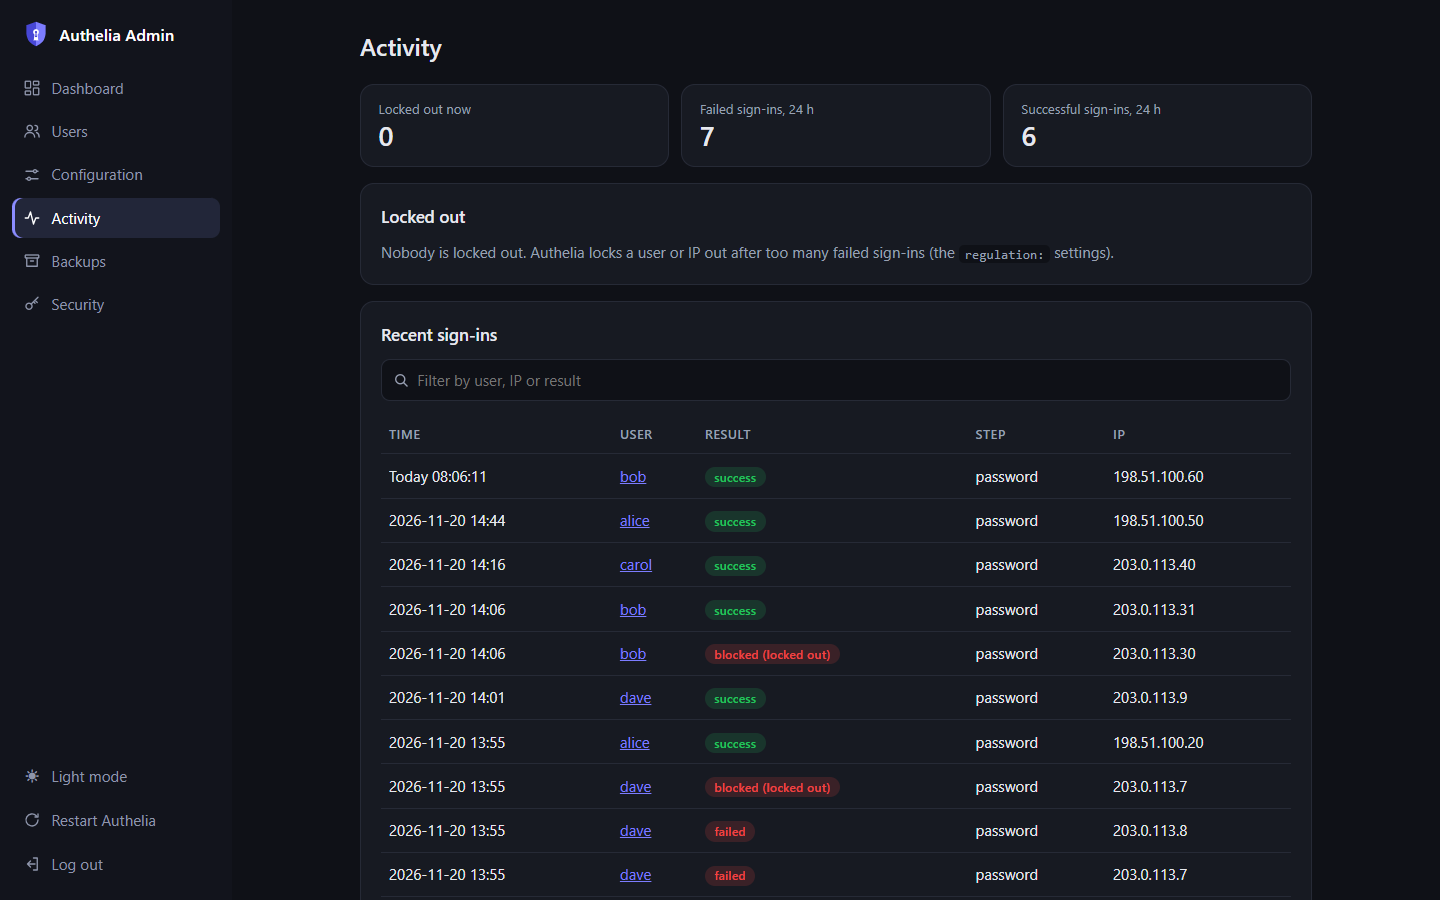
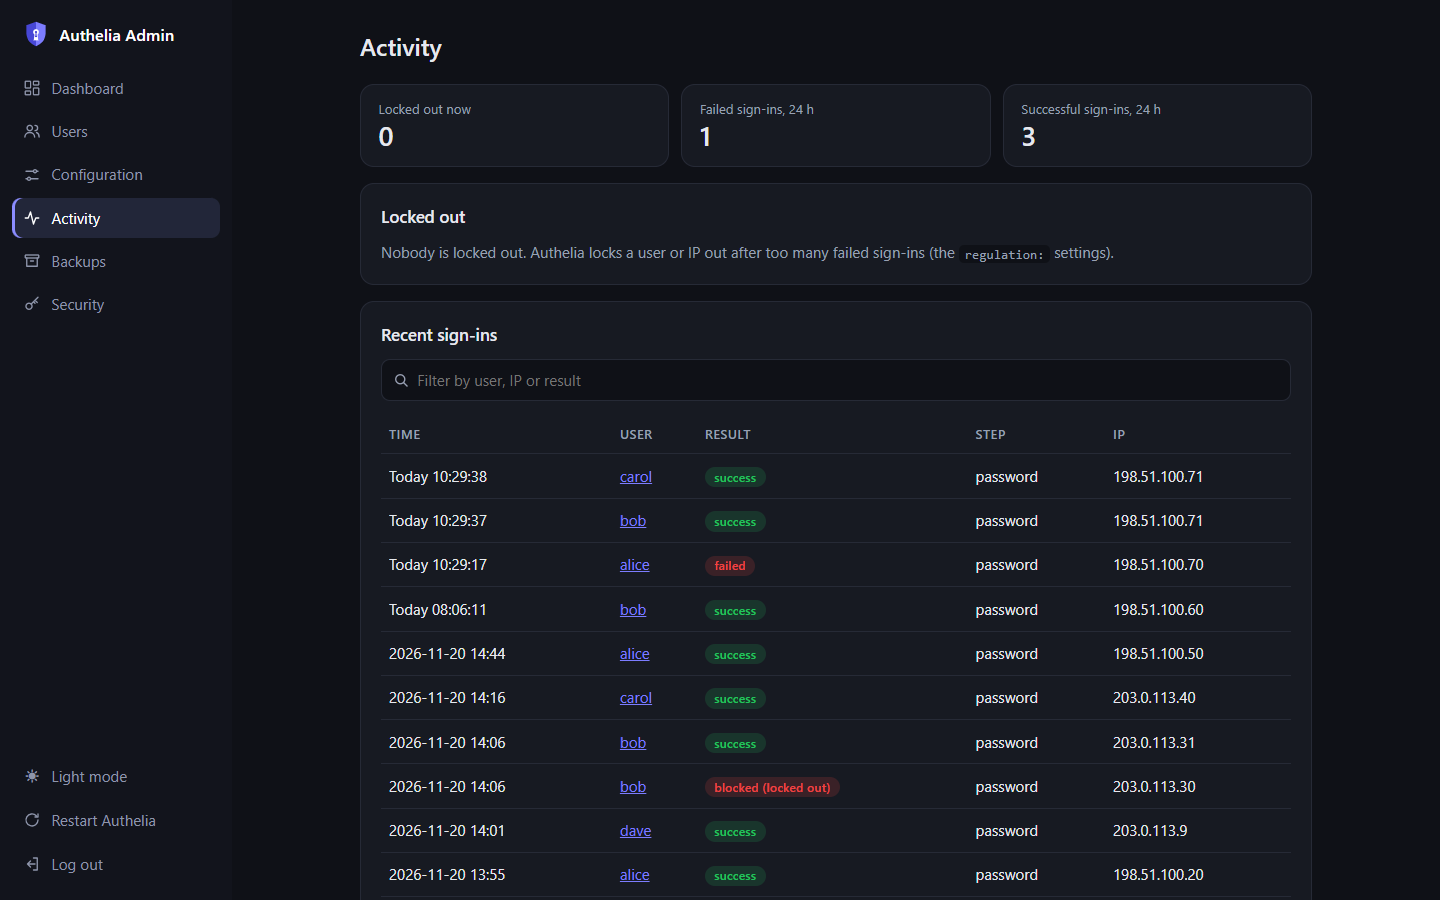
Add install script for the restart service; Backups screenshot
- scripts/install-restart-service.sh sets up the host side of the Restart
  button (flag-file mode): creates, enables and starts the systemd path and
  service units for the Authelia folder and container, checks root,
  systemd, Docker, folder and container first, removes an old unanswered
  request, and supports --dry-run and --uninstall. Tested in a systemd
  container against a real Authelia container.
- README: the script as the easy way to set up restart; a Backups page
  screenshot (screenshots retaken with the same sample data); scripts/ and
  tests/ in the project layout.

diff --git a/README.md b/README.md
@@ -16,9 +16,11 @@ Runs as a single container with a distroless runtime image and no pinned Autheli
   <img src="https://raw.githubusercontent.com/ShlomiD83/Authelia-Admin/main/docs/screenshots/dashboard.png" alt="Dashboard: Authelia status, configuration, security, users, backups, recent sign-ins and admin actions" width="880">
 </p>
 
-| Configuration editor | Activity | Users |
-|---|---|---|
-| <img src="https://raw.githubusercontent.com/ShlomiD83/Authelia-Admin/main/docs/screenshots/config-editor.png" alt="Configuration editor with YAML highlighting, indent guides and blurred secrets" width="290"> | <img src="https://raw.githubusercontent.com/ShlomiD83/Authelia-Admin/main/docs/screenshots/activity.png" alt="Activity: lockouts with Unban, recent sign-ins and admin actions" width="290"> | <img src="https://raw.githubusercontent.com/ShlomiD83/Authelia-Admin/main/docs/screenshots/users.png" alt="Users with groups, 2FA methods and last sign-in" width="290"> |
+| Configuration editor | Activity |
+|---|---|
+| <img src="https://raw.githubusercontent.com/ShlomiD83/Authelia-Admin/main/docs/screenshots/config-editor.png" alt="Configuration editor with YAML highlighting, indent guides and blurred secrets" width="430"> | <img src="https://raw.githubusercontent.com/ShlomiD83/Authelia-Admin/main/docs/screenshots/activity.png" alt="Activity: lockouts with Unban, recent sign-ins and admin actions" width="430"> |
+| **Users** | **Backups** |
+| <img src="https://raw.githubusercontent.com/ShlomiD83/Authelia-Admin/main/docs/screenshots/users.png" alt="Users with groups, 2FA methods and last sign-in" width="430"> | <img src="https://raw.githubusercontent.com/ShlomiD83/Authelia-Admin/main/docs/screenshots/backups.png" alt="Backups: export and import, database backup with its daily schedule, backups by file" width="430"> |
 
 ## Features
 
@@ -215,7 +217,18 @@ To turn it off, remove the variable and recreate the container.
 
 ### Restart Authelia from the UI
 
-**Flag file (recommended, no Docker access for the container).** Set `RESTART_FLAG_FILE: /config/.restart-request`. On the host, create a systemd path unit that reacts to the file (adjust the path to your Authelia folder and the container name):
+**Flag file (recommended, no Docker access for the container).** The button creates a request file in your Authelia folder, and a systemd unit on the host restarts the Authelia container when it appears.
+
+The easy way: run the install script on the Docker host, with your Authelia folder (the one mounted as `/config`) and the Authelia container's name:
+
+```bash
+curl -fsSLO https://raw.githubusercontent.com/ShlomiD83/Authelia-Admin/main/scripts/install-restart-service.sh
+sudo bash install-restart-service.sh --folder /path/to/authelia --container authelia
+```
+
+It creates, enables and starts the units below, checks the folder, container and systemd first, and removes an old unanswered request so nothing restarts by surprise. `--dry-run` shows what it would write without changing anything; `--uninstall` removes it. Then set `RESTART_FLAG_FILE: /config/.restart-request` in the admin container's compose file and recreate it.
+
+Or by hand: set `RESTART_FLAG_FILE: /config/.restart-request` and create a systemd path unit that reacts to the file (adjust the path to your Authelia folder and the container name):
 
 `/etc/systemd/system/authelia-restart.path`
 
@@ -349,6 +362,8 @@ app/templates/        Jinja templates
 app/static/app.js     browser-side code for every page (the CSP forbids inline scripts)
 editor/               configuration editor (CodeMirror), bundled into app/static/editor.js at build time;
                       versions pinned in editor/package-lock.json
+scripts/              install-restart-service.sh: host side of the Restart button (systemd units)
+tests/                smoke-test.sh and its sample data, run by CI before each image is published
 ```
 
 ## License

diff --git a/CHANGELOG.md b/CHANGELOG.md
@@ -6,7 +6,12 @@ entries are headed by date. Changes not yet in a published image are listed unde
 
 ## Unreleased
 
-Nothing yet.
+### Added
+- `scripts/install-restart-service.sh`: sets up the host side of the Restart button (flag-file mode) in
+  one command. It creates, enables and starts the systemd path and service units for your Authelia folder
+  and container, checks the prerequisites first, removes an old unanswered request, and supports
+  `--dry-run` and `--uninstall`.
+- A screenshot of the Backups page in the README.
 
 ## 2026-11-21 (image `2026.11.21-1850`)
 
